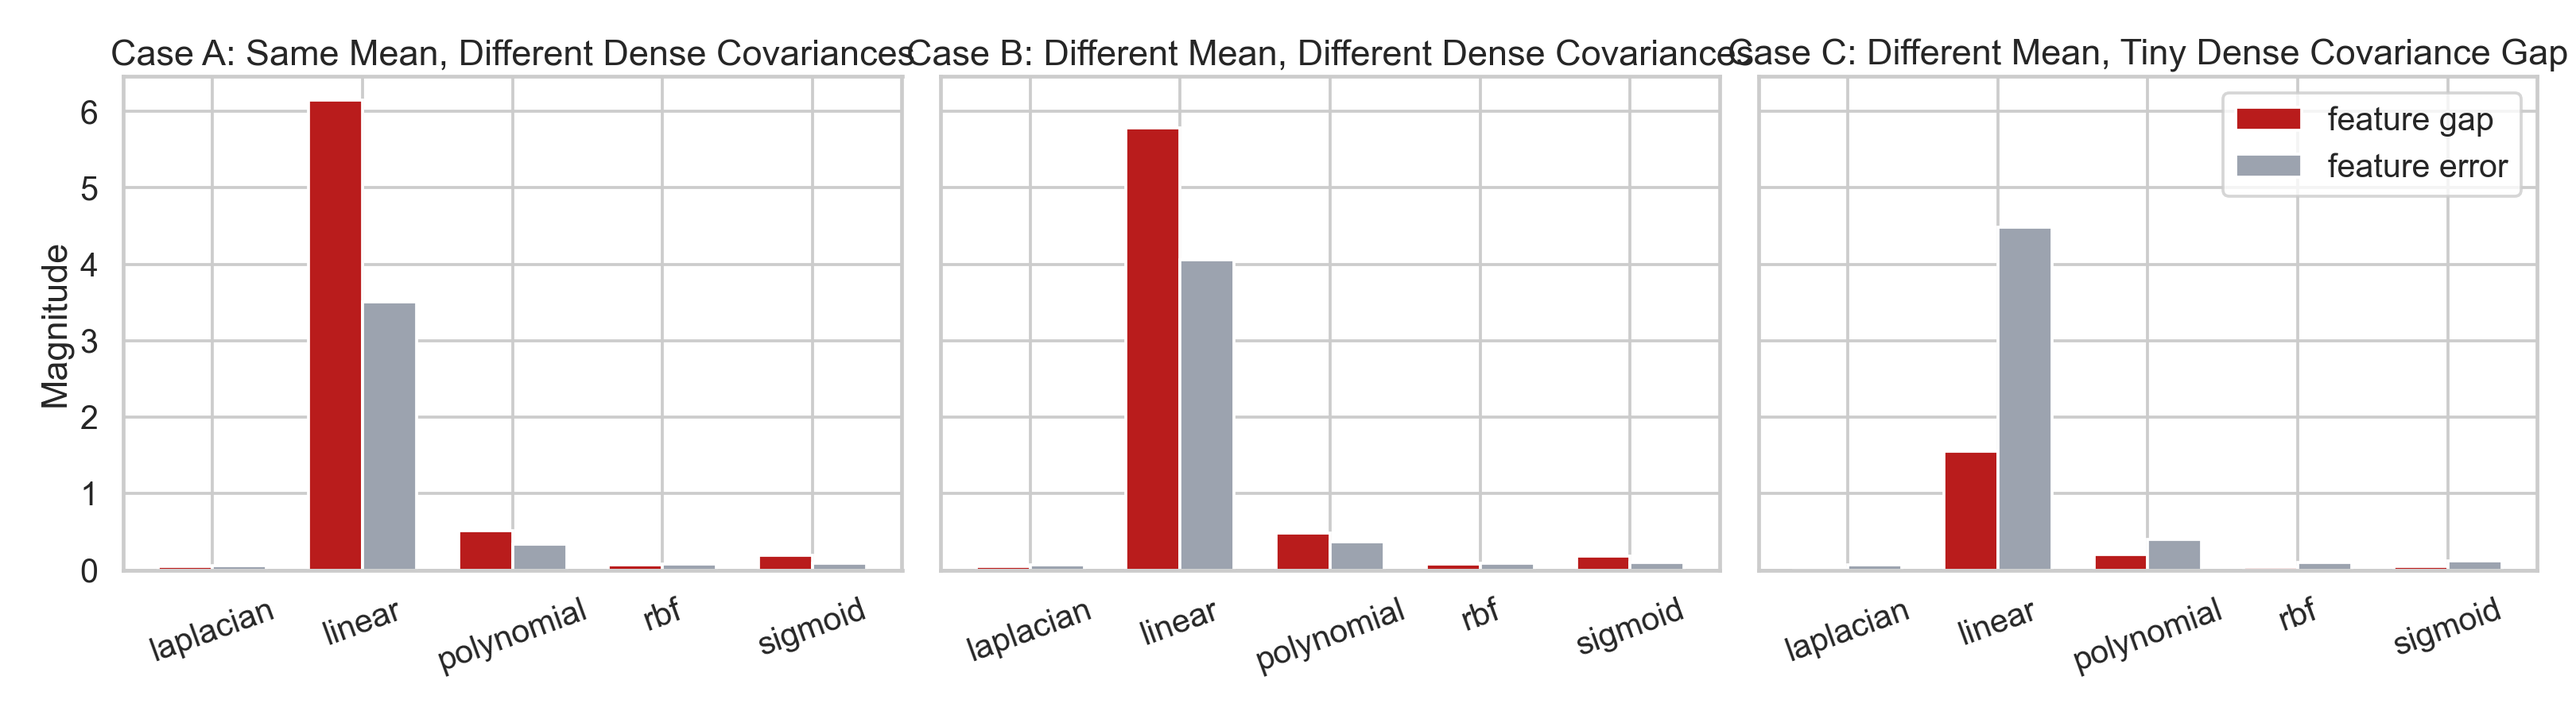
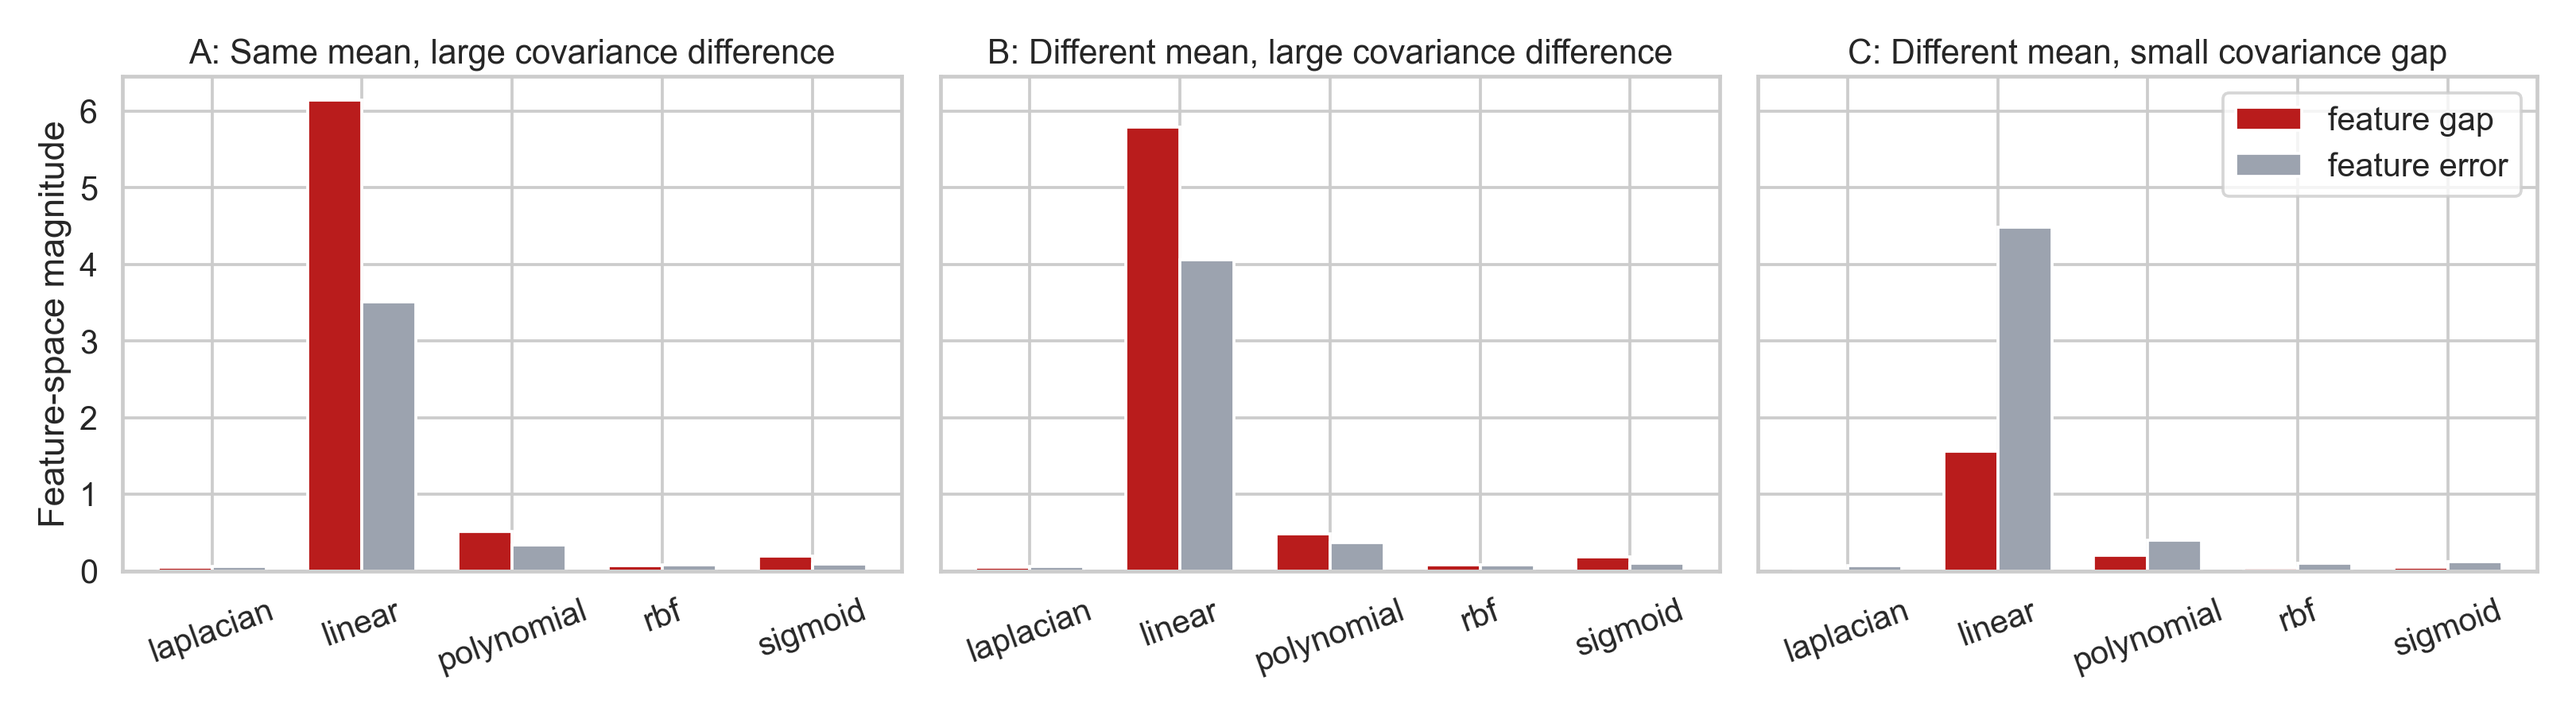
Add paper-ready SupCon subsections

diff --git a/simulations/supcon_gaussian_workspace/gaussian_supcon_vs_ours.py b/simulations/supcon_gaussian_workspace/gaussian_supcon_vs_ours.py
@@ -12,11 +12,20 @@ import seaborn as sns
 
 
 ROOT = Path(__file__).resolve().parent.parent
+REPO_ROOT = ROOT.parent
+PROJECT_ROOT = REPO_ROOT.parent
 OUT = Path(__file__).resolve().parent / "outputs"
 OUT.mkdir(parents=True, exist_ok=True)
 
-sys.path.insert(0, str(ROOT / "supcon_comparison_workspace"))
-sys.path.insert(0, str(ROOT / "redo_projection_workspace"))
+for workspace_name in ("supcon_comparison_workspace", "redo_projection_workspace"):
+    for candidate in (
+        ROOT / workspace_name,
+        REPO_ROOT / workspace_name,
+        PROJECT_ROOT / workspace_name,
+    ):
+        if candidate.exists():
+            sys.path.insert(0, str(candidate))
+            break
 
 from compare_supcon_vs_ours import load_notebook_namespace, train_supcon_feature_model, NOTEBOOK_PATH  # type: ignore
 import redo_projection_cv_experiment as base  # type: ignore
@@ -29,6 +38,12 @@ DISPLAY_METHOD = {
     "MY-large_mu": "KDMLP large",
     "MY-small_mu": "KDMLP small",
     "SupCon-feature": "SupCon",
+}
+
+REGIME_TITLE = {
+    "same_mean_diff_covariance": "A: Same mean, large covariance difference",
+    "diff_mean_diff_covariance": "B: Different mean, large covariance difference",
+    "diff_mean_tiny_covariance_gap": "C: Different mean, small covariance gap",
 }
 
 
@@ -158,7 +173,7 @@ def run_gaussian_experiment():
             [
                 {
                     "regime": regime.name,
-                    "title": regime.title,
+                    "title": REGIME_TITLE.get(regime.name, regime.title),
                     "method": "KFDA-1D",
                     "acc_mean": best_kfda["acc_mean"],
                     "acc_std": best_kfda["acc_std"],
@@ -167,7 +182,7 @@ def run_gaussian_experiment():
                 },
                 {
                     "regime": regime.name,
-                    "title": regime.title,
+                    "title": REGIME_TITLE.get(regime.name, regime.title),
                     "method": "MY-large_mu",
                     "acc_mean": best_large["acc_mean"],
                     "acc_std": best_large["acc_std"],
@@ -176,7 +191,7 @@ def run_gaussian_experiment():
                 },
                 {
                     "regime": regime.name,
-                    "title": regime.title,
+                    "title": REGIME_TITLE.get(regime.name, regime.title),
                     "method": "MY-small_mu",
                     "acc_mean": best_small["acc_mean"],
                     "acc_std": best_small["acc_std"],
@@ -185,7 +200,7 @@ def run_gaussian_experiment():
                 },
                 {
                     "regime": regime.name,
-                    "title": regime.title,
+                    "title": REGIME_TITLE.get(regime.name, regime.title),
                     "method": "SupCon-feature",
                     "acc_mean": sup_acc,
                     "acc_std": sup_std,
@@ -207,10 +222,10 @@ def run_gaussian_experiment():
         sub = df_summary[df_summary["regime"] == regime.name].copy()
         sub["method_display"] = sub["method"].map(DISPLAY_METHOD)
         ax.bar(sub["method_display"], sub["acc_mean"], yerr=sub["acc_std"], color=["#577590", "#43aa8b", "#f8961e", "#f94144"])
-        ax.set_title(regime.title)
+        ax.set_title(REGIME_TITLE.get(regime.name, regime.title))
         ax.set_ylim(0.45, 1.0)
         ax.tick_params(axis="x", rotation=18)
-    axes[0].set_ylabel("Accuracy")
+    axes[0].set_ylabel("Test accuracy")
     plt.tight_layout()
     fig.savefig(OUT / "gaussian_accuracy_comparison.png", dpi=180)
     plt.close(fig)
@@ -229,7 +244,7 @@ def run_gaussian_experiment():
         ax.bar(x + 0.18, sub["cov_gap_error_feature"], width=0.36, label="feature error", color="#9ca3af")
         ax.set_xticks(x)
         ax.set_xticklabels(sub["kernel"], rotation=20)
-        ax.set_title(regime.title)
+        ax.set_title(REGIME_TITLE.get(regime.name, regime.title))
     axes[0].set_ylabel("Magnitude")
     axes[-1].legend()
     plt.tight_layout()

diff --git a/simulations/supcon_gaussian_workspace/supcon_gaussian_subsection.tex b/simulations/supcon_gaussian_workspace/supcon_gaussian_subsection.tex
@@ -1,0 +1,85 @@
+% Requires: \usepackage{booktabs,graphicx,subcaption}
+\subsection{Dimension-Matched Gaussian Comparison with SupCon}
+\label{subsec:gaussian-supcon}
+
+We compare KDMLP with supervised contrastive learning (SupCon)~\cite{khosla2020supervised}
+on a controlled binary Gaussian problem in $d=220$ dimensions.  Let $v\in\mathbb{R}^d$
+be a random unit vector and let $A_0,A_1\in\mathbb{R}^{d\times d}$ have independent
+standard Gaussian entries.  The class-conditional distributions are
+\begin{equation}
+ X\mid Y=0\sim\mathcal{N}(-0.1v,\Sigma_0),\qquad
+ X\mid Y=1\sim\mathcal{N}(0.1v,\Sigma_1),
+ \quad
+ \Sigma_0=\frac{A_0^{\top}A_0}{d},\quad
+ \Sigma_1=2.5\frac{A_1^{\top}A_1}{d}.
+\end{equation}
+Thus, $\|\mu_1-\mu_0\|_2=0.2$, whereas
+$\|\Sigma_1-\Sigma_0\|_{\mathrm F}=45.538$, so second-order separation is
+substantial relative to the mean shift.  In each of two repetitions, we draw
+$320$ training, $1200$ test, and $2400$ independent reference observations per
+class.
+
+KDMLP and SupCon are evaluated at the same final dimensions $r\in\{1,\ldots,6\}$.
+SupCon uses a $128$-dimensional encoder and a $64$-dimensional projection head
+inside the contrastive loss; after training, training-set PCA reduces the encoder
+output to dimension $r$.  A logistic probe, whose regularization is selected by
+three-fold training validation, evaluates both representations.  KDMLP searches
+linear, RBF, Laplacian, degree-two polynomial, and sigmoid Stage-1 kernels.
+
+\begin{table}[t]
+\centering
+\caption{Mean test accuracy over two Gaussian repetitions under the same final
+dimension $r$.}
+\label{tab:gaussian-supcon-same-r}
+\small
+\begin{tabular}{c c c c}
+\toprule
+$r$ & KDMLP-large & KDMLP-small & SupCon \\
+\midrule
+1 & \textbf{0.9992} & 0.5752 & 0.9471 \\
+2 & \textbf{0.9992} & 0.5967 & 0.9479 \\
+3 & \textbf{0.9992} & 0.6121 & 0.9475 \\
+4 & \textbf{0.9992} & 0.6375 & 0.9469 \\
+5 & \textbf{0.9990} & 0.6365 & 0.9483 \\
+6 & \textbf{0.9990} & 0.6406 & 0.9492 \\
+\bottomrule
+\end{tabular}
+\end{table}
+
+For method $m$ and dimension $r$, we also report the covariance-gap estimation
+error
+\begin{equation}
+ E_{\Delta C}^{(m,r)}=
+ \left\|
+ (\widehat C_{1,\mathrm{tr}}^{(m,r)}-\widehat C_{0,\mathrm{tr}}^{(m,r)})-
+ (\widehat C_{1,\mathrm{ref}}^{(m,r)}-\widehat C_{0,\mathrm{ref}}^{(m,r)})
+ \right\|_{\mathrm F}.
+\end{equation}
+In the finite-dimensional reduced space, the Frobenius norm equals the
+Hilbert--Schmidt norm.  Since each method learns a differently scaled coordinate
+system, absolute values of $E_{\Delta C}^{(m,r)}$ are interpreted across $r$
+within a method rather than as a direct cross-method ranking.
+
+\begin{figure*}[t]
+\centering
+\begin{subfigure}{0.49\textwidth}
+ \includegraphics[width=\linewidth]{simulations/supcon_gaussian_workspace/outputs_dimmatch/same_r_accuracy_plot.png}
+ \caption{Dimension-matched test accuracy.}
+\end{subfigure}
+\begin{subfigure}{0.49\textwidth}
+ \includegraphics[width=\linewidth]{simulations/supcon_gaussian_workspace/outputs_dimmatch/same_r_covgap_error_plot.png}
+ \caption{Covariance-gap estimation error.}
+\end{subfigure}
+\caption{Gaussian KDMLP--SupCon comparison.  Shading in the accuracy panel
+denotes one standard deviation across two repetitions.}
+\label{fig:gaussian-supcon}
+\end{figure*}
+
+KDMLP-large remains near $99.9\%$ accuracy from one to six dimensions, whereas
+SupCon remains between $94.7\%$ and $94.9\%$.  Hence no tested SupCon dimension
+matches KDMLP-large; the closest value occurs at $r=6$ and still differs by about
+$0.050$.  The weaker KDMLP-small curve also shows that the advantage is not due
+to dimension alone: selecting the appropriate KDMLP regime is important.  These
+curves are exploratory upper envelopes because the current script chooses the
+best KDMLP Stage-1 kernel at each $r$ using test accuracy; a confirmatory run
+should perform this selection by nested training validation.

diff --git a/simulations/supcon_openml_workspace/supcon_openml_subsection.tex b/simulations/supcon_openml_workspace/supcon_openml_subsection.tex
@@ -1,0 +1,71 @@
+% Requires: \usepackage{booktabs,graphicx}
+\subsection{Same-Dimension Comparison on OpenML}
+\label{subsec:openml-supcon}
+
+We next compare KDMLP, feature-level SupCon~\cite{khosla2020supervised}, and KFDA
+on 13 OpenML tasks: breast-cancer (13), breast-w (15), credit-g (31), segment
+(36), diabetes (37), sonar (40), splice (46), heart-statlog (53), hypothyroid
+(57), waveform-5000 (60), banana (1460), ringnorm (1496), and Titanic (40945).
+Multiclass datasets are converted to one-versus-rest binary tasks.  Each dataset
+uses a stratified $60\%/40\%$ train/test split and the common dimension grid
+$r\in\{1,2,3,4,5,6,32,64\}$.
+
+KDMLP searches its large- and small-mean regimes with linear, RBF, and Laplacian
+Stage-1 kernels, followed by a training-validated SVM.  SupCon uses the same
+feature-level architecture as in Section~\ref{subsec:gaussian-supcon}: its
+$128$-dimensional encoder output is reduced by training-set PCA to dimension $r$
+and evaluated by a training-validated logistic probe.  For binary KFDA, the
+between-class scatter has rank at most one; consequently, KFDA supplies one
+nonzero discriminant direction and its accuracy is repeated across $r$ as a flat
+reference.
+
+\begin{table}[t]
+\centering
+\caption{Mean test accuracy across the 13 OpenML tasks.}
+\label{tab:openml-supcon-same-r}
+\small
+\begin{tabular}{c c c c}
+\toprule
+$r$ & Best KDMLP & SupCon & KFDA \\
+\midrule
+1  & \textbf{0.8655} & 0.8156 & 0.8368 \\
+2  & \textbf{0.8668} & 0.8302 & 0.8368 \\
+3  & \textbf{0.8665} & 0.8463 & 0.8368 \\
+4  & \textbf{0.8627} & 0.8550 & 0.8368 \\
+5  & \textbf{0.8698} & 0.8580 & 0.8368 \\
+6  & 0.8638 & \textbf{0.8639} & 0.8368 \\
+32 & \textbf{0.8780} & 0.8617 & 0.8368 \\
+64 & \textbf{0.8716} & 0.8583 & 0.8368 \\
+\bottomrule
+\end{tabular}
+\end{table}
+
+At $r=32$, KDMLP obtains the largest mean accuracy, exceeding SupCon by $0.0162$
+and KFDA by $0.0412$.  At this dimension KDMLP wins/ties/loses against SupCon on
+$6/3/4$ datasets; at $r=64$ the corresponding count is $10/0/3$.  The individual
+curves show that the effect of $r$ is dataset dependent: banana improves steadily,
+sonar peaks at $r=32$, hypothyroid is strongest at $r=1$, and ringnorm remains
+near its ceiling throughout the grid.
+
+\begin{figure}[t]
+\centering
+\includegraphics[width=0.82\linewidth]{simulations/supcon_openml_workspace/outputs_same_r/openml_same_r_mean_curve.png}
+\caption{Mean same-$r$ accuracy across the 13 OpenML tasks.}
+\label{fig:openml-supcon-mean}
+\end{figure}
+
+\begin{figure*}[t]
+\centering
+\includegraphics[width=0.94\textwidth]{simulations/supcon_openml_workspace/outputs_same_r/openml_all_same_r_curves.png}
+\caption{Dataset-level same-$r$ curves for KDMLP, SupCon, and rank-one KFDA.}
+\label{fig:openml-supcon-all}
+\end{figure*}
+
+This experiment is an exploratory dimension-sensitivity study rather than a
+fully nested benchmark.  The saved run uses one split, fits unsupervised tabular
+preprocessing before that split, and retrospectively selects the best KDMLP
+kernel/regime at each $r$ by test accuracy; moreover, KDMLP/KFDA and SupCon use
+different downstream probes.  Therefore, the reported values are descriptive.
+A confirmatory evaluation should fit preprocessing on each training fold, use
+repeated outer splits, select all models within nested validation, and use a
+common downstream classifier.

diff --git a/simulations/supcon_openml_workspace/openml_supcon_vs_ours.py b/simulations/supcon_openml_workspace/openml_supcon_vs_ours.py
@@ -14,10 +14,19 @@ from sklearn.model_selection import StratifiedShuffleSplit
 
 
 ROOT = Path(__file__).resolve().parent.parent
+REPO_ROOT = ROOT.parent
+PROJECT_ROOT = REPO_ROOT.parent
 OUT = Path(__file__).resolve().parent / "outputs"
 OUT.mkdir(parents=True, exist_ok=True)
 
-sys.path.insert(0, str(ROOT / "supcon_comparison_workspace"))
+for candidate in (
+    ROOT / "supcon_comparison_workspace",
+    REPO_ROOT / "supcon_comparison_workspace",
+    PROJECT_ROOT / "supcon_comparison_workspace",
+):
+    if candidate.exists():
+        sys.path.insert(0, str(candidate))
+        break
 
 from compare_supcon_vs_ours import load_notebook_namespace, train_supcon_feature_model, NOTEBOOK_PATH  # type: ignore
 
@@ -32,7 +41,16 @@ DISPLAY_METHOD = {
 }
 
 
-OPENML_NOTEBOOK = ROOT / "OPENML_KFDA_vs_Our_method_multidim.ipynb"
+for candidate in (
+    ROOT / "OPENML_KFDA_vs_Our_method_multidim.ipynb",
+    REPO_ROOT / "OPENML_KFDA_vs_Our_method_multidim.ipynb",
+    PROJECT_ROOT / "OPENML_KFDA_vs_Our_method_multidim.ipynb",
+):
+    if candidate.exists():
+        OPENML_NOTEBOOK = candidate
+        break
+else:
+    OPENML_NOTEBOOK = ROOT / "OPENML_KFDA_vs_Our_method_multidim.ipynb"
 
 
 def open_png_outputs(out_dir: Path) -> None:
@@ -190,8 +208,8 @@ def run_openml_experiment():
     colors = ["#43aa8b" if v > 0 else "#f94144" for v in sub["margin_my_minus_supcon"]]
     ax.barh(sub["dataset"], sub["margin_my_minus_supcon"], color=colors)
     ax.axvline(0.0, color="black", linewidth=1.2)
-    ax.set_xlabel("MY-best minus SupCon accuracy")
-    ax.set_title("OpenML: our method vs SupCon")
+    ax.set_xlabel("Best KDMLP minus SupCon accuracy")
+    ax.set_title("OpenML: KDMLP vs SupCon")
     plt.tight_layout()
     fig.savefig(OUT / "openml_margin_vs_supcon.png", dpi=180)
     plt.close(fig)
@@ -208,6 +226,7 @@ def run_openml_experiment():
     df_plot = pd.DataFrame(plot_rows)
     fig, ax = plt.subplots(figsize=(13, 7))
     sns.barplot(data=df_plot, x="dataset", y="acc", hue="method", ax=ax)
+    ax.set_ylabel("Test accuracy")
     ax.set_title("OpenML summary comparison")
     ax.tick_params(axis="x", rotation=45)
     plt.tight_layout()

diff --git a/simulations/supcon_gaussian_workspace/gaussian_supcon_vs_ours_hd220.py b/simulations/supcon_gaussian_workspace/gaussian_supcon_vs_ours_hd220.py
@@ -12,11 +12,20 @@ import seaborn as sns
 
 
 ROOT = Path(__file__).resolve().parent.parent
+REPO_ROOT = ROOT.parent
+PROJECT_ROOT = REPO_ROOT.parent
 OUT = Path(__file__).resolve().parent / "outputs_hd220"
 OUT.mkdir(parents=True, exist_ok=True)
 
-sys.path.insert(0, str(ROOT / "supcon_comparison_workspace"))
-sys.path.insert(0, str(ROOT / "redo_projection_workspace"))
+for workspace_name in ("supcon_comparison_workspace", "redo_projection_workspace"):
+    for candidate in (
+        ROOT / workspace_name,
+        REPO_ROOT / workspace_name,
+        PROJECT_ROOT / workspace_name,
+    ):
+        if candidate.exists():
+            sys.path.insert(0, str(candidate))
+            break
 
 from compare_supcon_vs_ours import load_notebook_namespace, train_supcon_feature_model, NOTEBOOK_PATH  # type: ignore
 import redo_projection_cv_experiment as base  # type: ignore
@@ -29,6 +38,12 @@ DISPLAY_METHOD = {
     "MY-large_mu": "KDMLP large",
     "MY-small_mu": "KDMLP small",
     "SupCon-feature": "SupCon",
+}
+
+CASE_TITLE = {
+    "hd220_case_1": "A: covariance scale 2.5",
+    "hd220_case_2": "B: covariance scale 2.8",
+    "hd220_case_3": "C: covariance scale 3.0",
 }
 
 
@@ -189,10 +204,10 @@ def run_hd220_experiment():
         sub = df[df["case"] == case_name].copy()
         sub["method_display"] = sub["method"].map(DISPLAY_METHOD)
         ax.bar(sub["method_display"], sub["acc_mean"], yerr=sub["acc_std"], color=["#577590", "#43aa8b", "#f8961e", "#f94144"])
-        ax.set_title(case_name)
+        ax.set_title(CASE_TITLE.get(case_name, case_name))
         ax.set_ylim(0.8, 1.02)
         ax.tick_params(axis="x", rotation=18)
-    axes[0].set_ylabel("Accuracy")
+    axes[0].set_ylabel("Test accuracy")
     plt.tight_layout()
     fig.savefig(OUT / "hd220_accuracy_bar.png", dpi=180)
     plt.close(fig)
